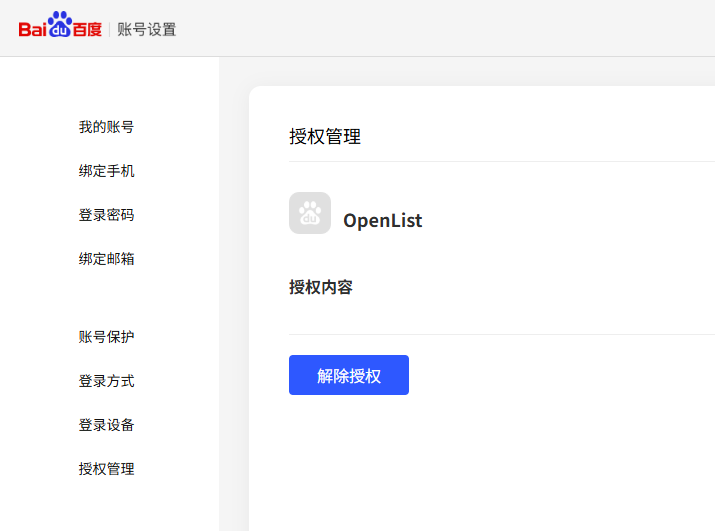
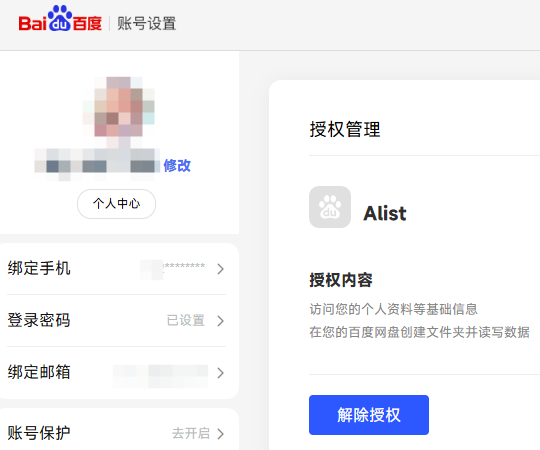
docs(guide): update baidu netdisk auth revocation screenshots in migrate from alist v3

diff --git a/pages/guide/migrate.md b/pages/guide/migrate.md
@@ -111,7 +111,7 @@ The following content is provided by helpful online users in [OpenListTeam/OpenL
 1. Log in to Baidu Netdisk
 2. Visit the link: [https://passport.baidu.com/v6/appAuthority](https://passport.baidu.com/v6/appAuthority)
    ![](/img/guide/migrate/baidu_remove1.png)
-3. Find Alist in Authorization Management (when writing this, Alist was banned, so here it is shown as OpenList), click to enter, then click "**Revoke Authorization**"
+3. Find Alist in Authorization Management, click to enter, then click "**Revoke Authorization**"
    ![](/img/guide/migrate/baidu_remove2.png)
 4. Successfully revoked
 
@@ -122,7 +122,7 @@ The following content is provided by helpful online users in [OpenListTeam/OpenL
 1. 登陆百度网盘
 2. 访问链接 https://passport.baidu.com/v6/appAuthority
    ![](/img/guide/migrate/baidu_remove1.png)
-3. 在授权管理中找到 Alist（编写本段时Alist被D了，这里演示为OpenList），点击进入后点击 “**解除授权**”
+3. 在授权管理中找到 Alist，点击进入后点击 “**解除授权**”
    ![](/img/guide/migrate/baidu_remove2.png)
 4. 解除成功
 
